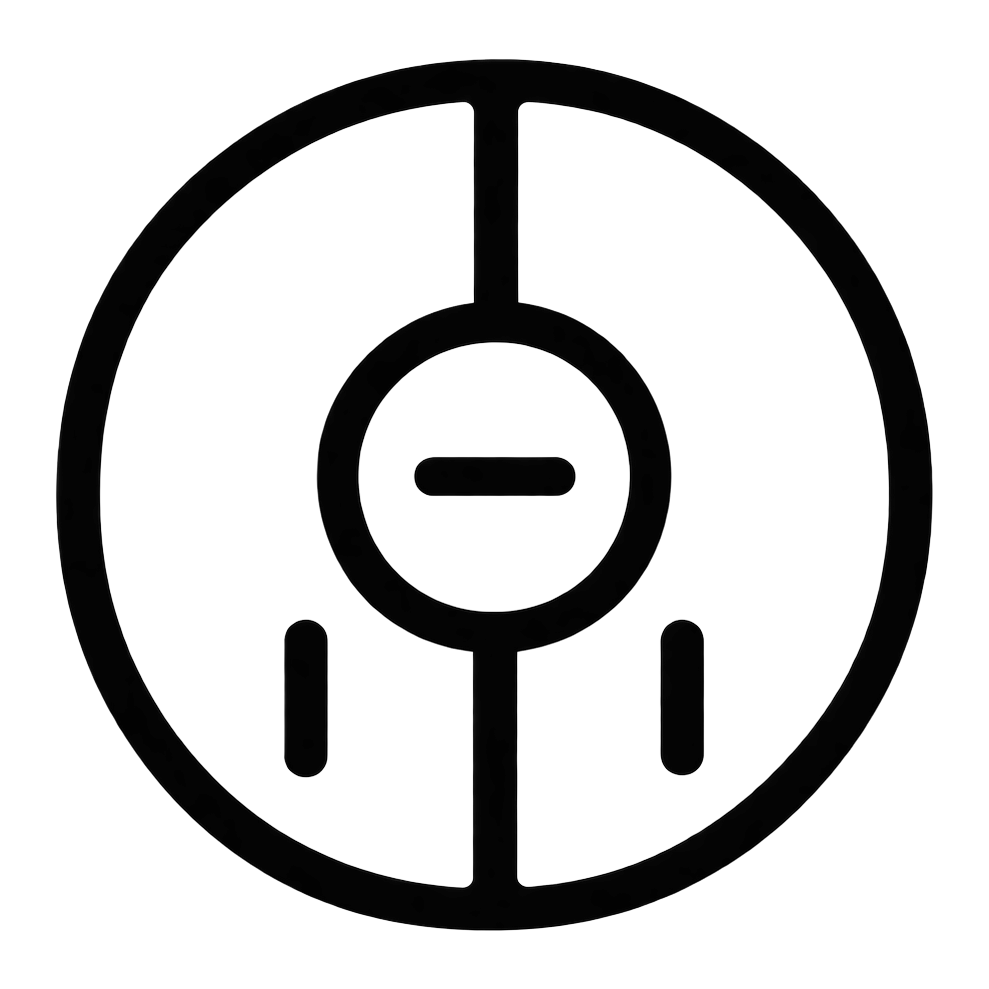
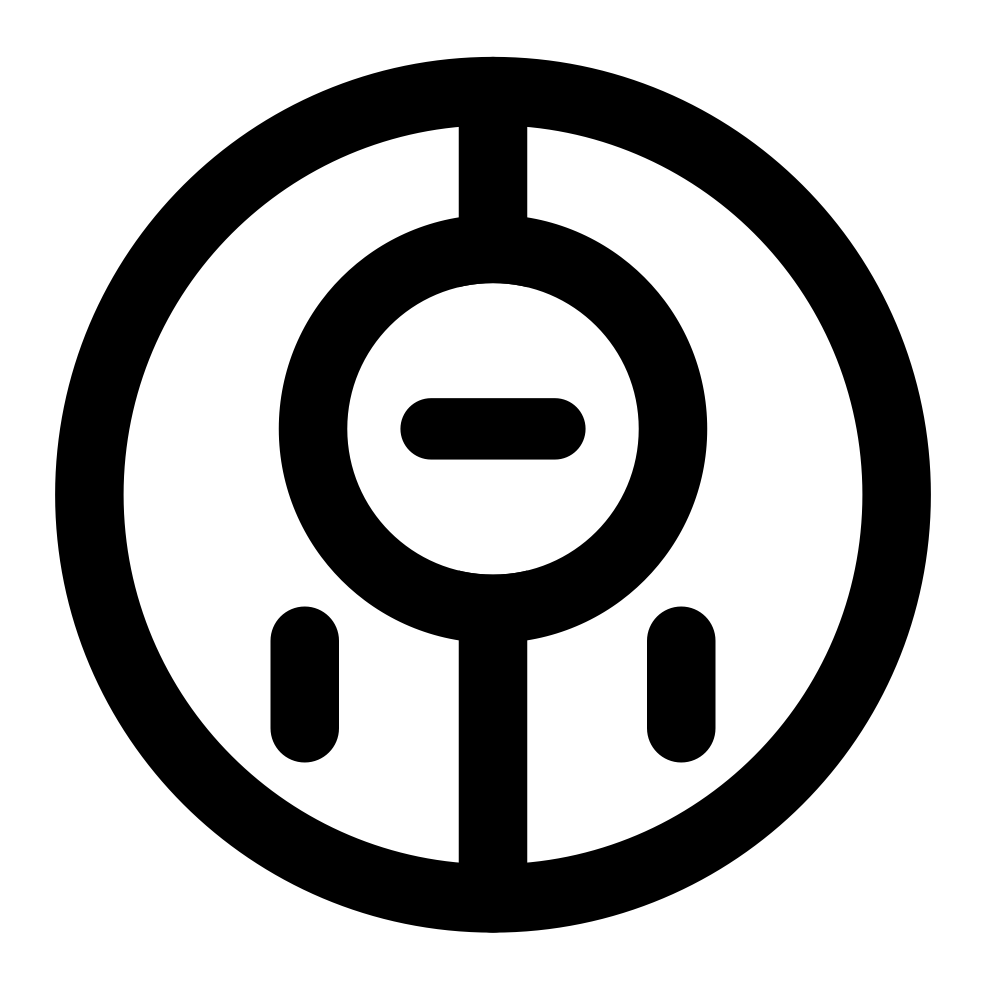
feat: generate the app mark from geometry at a heavier weight
The mark was a 989 px bitmap with no vector source behind it, and both reps were
a 29x downscale of it. Its strokes were 4.9% of the mark's width, which is
1.58 px in the 36 px rep — thin enough that downscaling reads as blur rather
than as weight — and changing that weight meant editing the artwork in an
external tool and re-exporting by hand.

The geometry is now the source. `Scripts/make-glyph/main.swift`, run through
`Scripts/make-glyph.sh`, builds the mark from five primitives, so the stroke
weight, the inner ring's radius and its height are each one number, and it
prints every clearance between parts before writing anything. All three PNGs are
drawn at their own size with CoreGraphics instead of being resampled;
`Resources/Glyph.png` stays as the reference rendering of the same geometry.

The constants were fitted to the artwork this replaces, by ray-casting it: that
raster's outer ring is a slight ellipse, 438.9 x 436.9, normalised here to a
circle of 437.9, and its inner ring is a true circle of centreline radius 156.5
whose centre sits 17.9 px above the outer ring's. The outer edge is pinned, so
the mark keeps filling 16 of the 18 authored points at any weight.

At the new weight — 43.5 to 68.5 master px, or 0.79 to 1.25 pt, 1.58 to 2.49 px
at 2x — the inner ring grows 15% and rises 48 px, and the two dashes are what
run out of room first. A stroke change of d takes 2d out of every
capsule-to-ring gap, and raising the ring moves the binding pair from
[…]

diff --git a/Scripts/make-glyph/main.swift b/Scripts/make-glyph/main.swift
@@ -1,0 +1,301 @@
+import AppKit
+import CoreGraphics
+import ImageIO
+import UniformTypeIdentifiers
+
+// YUANNotch · app-mark generator
+//
+// The mark is a monoline drawing built from five primitives, so its weight, the
+// inner ring's size and its height are each one number. This tool is the single
+// source of truth for the geometry; it renders the three tracked PNGs and prints
+// every clearance between parts, so a weight change can be judged before it is
+// drawn.
+//
+// The fitted constants came from ray-casting the artwork that shipped before
+// this tool existed. That raster's outer ring is a slight ellipse, 438.9 x 436.9,
+// normalised here to a circle of 437.9; its inner ring is a true circle of
+// centreline radius 156.5 whose centre sits 17.9 px above the outer ring's.
+//
+//   make-glyph <repo-root> [--baseline] [--out-dir <dir>]
+//
+//   --baseline  render the pre-existing weight and spacing, so the fit can be
+//               re-verified against the artwork it was fitted to
+//   --out-dir   write flat filenames into this directory instead of the tracked
+//               paths under <repo-root>
+
+// MARK: - geometry
+
+/// Measured, not chosen.
+private enum Fitted {
+    static let canvas: CGFloat = 989
+    static let centreX: CGFloat = 493.0
+    static let centreY: CGFloat = 494.75
+    /// Outer ring's outer edge. Pinned, so the mark keeps filling 16 of the 18
+    /// authored points however thick the stroke gets.
+    static let outerEdge: CGFloat = 437.9
+    static let spineX: CGFloat = 493.0
+    static let dashOffsetX: CGFloat = 188.25
+    static let dashedCentreY: CGFloat = 697.5
+    static let innerRadius: CGFloat = 156.5
+    static let innerCentreY: CGFloat = 476.86
+    static let dashLength: CGFloat = 156
+    static let barLength: CGFloat = 161
+    static let barThicknessRatio: CGFloat = 0.8966
+}
+
+/// The design: every value here is a decision.
+private struct MarkDesign {
+    var stroke: CGFloat
+    var innerRadius: CGFloat
+    var innerCentreY: CGFloat
+    var dashCentreY: CGFloat
+    var dashLength: CGFloat
+
+    /// What shipped before the 2026-09-18 weight pass.
+    static let original = MarkDesign(
+        stroke: 43.5,
+        innerRadius: Fitted.innerRadius,
+        innerCentreY: Fitted.innerCentreY,
+        dashCentreY: Fitted.dashedCentreY,
+        dashLength: Fitted.dashLength
+    )
+
+    /// 1.25 pt of the 18 pt box — 2.49 px at 2x against 1.58 px before. The inner
+    /// ring grows 15% and rises 48 master px (1.75 px at 2x, 8.8% of the exported
+    /// width). At this weight the two dashes are the first thing to run out of
+    /// room, so they keep their length and rise 13 px with the ring; see the
+    /// clearance report this tool prints.
+    static let current = MarkDesign(
+        stroke: 68.5,
+        innerRadius: Fitted.innerRadius * 1.15,
+        innerCentreY: Fitted.innerCentreY - 48,
+        dashCentreY: Fitted.dashedCentreY - 13,
+        dashLength: Fitted.dashLength
+    )
+
+    var half: CGFloat { stroke / 2 }
+
+    /// The bar's length follows the ring it sits in; its thickness follows the
+    /// stroke, so the mark stays one family at any weight.
+    var barLength: CGFloat { Fitted.barLength * innerRadius / Fitted.innerRadius }
+
+    var barThickness: CGFloat { Fitted.barThicknessRatio * stroke }
+
+    // MARK: clearances
+
+    /// Boundary of a round-capped rectangle. Every gap below is the smallest
+    /// ink-to-ink distance, measured from the shapes that are drawn.
+    private static func capsuleOutline(cx: CGFloat, cy: CGFloat,
+                                       halfWidth: CGFloat, halfHeight: CGFloat,
+                                       samples: Int = 360) -> [CGPoint] {
+        let r = min(halfWidth, halfHeight)
+        let sx = halfWidth - r
+        let sy = halfHeight - r
+        return (0..<samples).map { i in
+            let t = 2 * CGFloat.pi * CGFloat(i) / CGFloat(samples)
+            let x = cos(t) * r
+            let y = sin(t) * r
+            return CGPoint(x: cx + x + (x > 0 ? sx : -sx),
+                           y: cy + y + (y > 0 ? sy : -sy))
+        }
+    }
+
+    private func dashOutline(sign: CGFloat) -> [CGPoint] {
+        Self.capsuleOutline(cx: Fitted.centreX + sign * Fitted.dashOffsetX,
+                            cy: dashCentreY, halfWidth: half, halfHeight: dashLength / 2)
+    }
+
+    private var barOutline: [CGPoint] {
+        Self.capsuleOutline(cx: Fitted.centreX, cy: innerCentreY,
+                            halfWidth: barLength / 2, halfHeight: barThickness / 2)
+    }
+
+    private func distance(_ p: CGPoint, to centre: CGPoint) -> CGFloat {
+        let dx = p.x - centre.x
+        let dy = p.y - centre.y
+        return (dx * dx + dy * dy).squareRoot()
+    }
+
+    /// Smallest ink-to-ink gap per facing pair, in master px.
+    func clearances() -> [(name: String, gap: CGFloat)] {
+        let outerInnerRadius = Fitted.outerEdge - stroke
+        let innerOuterRadius = innerRadius + half
+        let innerInnerRadius = innerRadius - half
+        let ringCentre = CGPoint(x: Fitted.centreX, y: Fitted.centreY)
+        let innerCentre = CGPoint(x: Fitted.centreX, y: innerCentreY)
+
+        var toOuter = CGFloat.greatestFiniteMagnitude
+        var toInner = CGFloat.greatestFiniteMagnitude
+        var toSpine = CGFloat.greatestFiniteMagnitude
+        for sign in [CGFloat(-1), CGFloat(1)] {
+            for p in dashOutline(sign: sign) {
+                toOuter = min(toOuter, outerInnerRadius - distance(p, to: ringCentre))
+                toInner = min(toInner, distance(p, to: innerCentre) - innerOuterRadius)
+                toSpine = min(toSpine, abs(p.x - Fitted.spineX) - half)
+            }
+        }
+        let barReach = barOutline.map { distance($0, to: innerCentre) }.max() ?? 0
+        return [
+            ("短划线 → 外环", toOuter),
+            ("短划线 → 内环", toInner),
+            ("短划线 → 脊柱", toSpine),
+            ("横杆   → 内环", innerInnerRadius - barReach),
+            ("内环   → 外环", outerInnerRadius - innerOuterRadius),
+        ]
+    }
+
+    /// Everything except the ring-to-ring gap, which is never the binding one.
+    func minGap() -> CGFloat {
+        clearances().dropLast().map(\.gap).min() ?? 0
+    }
+
+    // MARK: drawing
+
+    /// Renders the mark at `size` px square. Coordinates are master units, so
+    /// the exported rep is the geometry drawn at its own size — the artwork is
+    /// never resampled down from the master.
+    func draw(size: Int) -> CGImage? {
+        guard let ctx = CGContext(
+            data: nil, width: size, height: size, bitsPerComponent: 8,
+            bytesPerRow: 0, space: CGColorSpaceCreateDeviceRGB(),
+            bitmapInfo: CGImageAlphaInfo.premultipliedLast.rawValue
+        ) else { return nil }
+
+        ctx.setShouldAntialias(true)
+        // A bitmap context has its origin at the bottom left; the geometry is
+        // measured from the top left, as the artwork always was.
+        ctx.translateBy(x: 0, y: CGFloat(size))
+        let k = CGFloat(size) / Fitted.canvas
+        ctx.scaleBy(x: k, y: -k)
+
+        ctx.setFillColor(CGColor(red: 0, green: 0, blue: 0, alpha: 1))
+        let ringCentre = CGPoint(x: Fitted.centreX, y: Fitted.centreY)
+        let innerCentre = CGPoint(x: Fitted.centreX, y: innerCentreY)
+
+        fillRing(ctx, centre: ringCentre, radius: Fitted.outerEdge - half, width: stroke)
+        fillCapsule(ctx, centre: CGPoint(x: Fitted.spineX, y: Fitted.centreY),
+                    halfWidth: half, halfHeight: Fitted.outerEdge)
+        // the inner ring's interior knocks the spine out
+        ctx.setBlendMode(.clear)
+        fillEllipse(ctx, centre: innerCentre, radius: innerRadius - half)
+        ctx.setBlendMode(.normal)
+        fillRing(ctx, centre: innerCentre, radius: innerRadius, width: stroke)
+        fillCapsule(ctx, centre: innerCentre,
+                    halfWidth: barLength / 2, halfHeight: barThickness / 2)
+        for sign in [CGFloat(-1), CGFloat(1)] {
+            fillCapsule(ctx, centre: CGPoint(x: Fitted.centreX + sign * Fitted.dashOffsetX,
+                                             y: dashCentreY),
+                        halfWidth: half, halfHeight: dashLength / 2)
+        }
+        return ctx.makeImage()
+    }
+}
+
+// MARK: - drawing helpers
+
+private func fillEllipse(_ ctx: CGContext, centre: CGPoint, radius: CGFloat) {
+    ctx.fillEllipse(in: CGRect(x: centre.x - radius, y: centre.y - radius,
+                               width: radius * 2, height: radius * 2))
+}
+
+/// Annulus: both edges of the stroke are centreline ± width/2, filled even-odd.
+private func fillRing(_ ctx: CGContext, centre: CGPoint, radius: CGFloat, width: CGFloat) {
+    let outer = radius + width / 2
+    let inner = radius - width / 2
+    let path = CGMutablePath()
+    path.addEllipse(in: CGRect(x: centre.x - outer, y: centre.y - outer,
+                               width: outer * 2, height: outer * 2))
+    path.addEllipse(in: CGRect(x: centre.x - inner, y: centre.y - inner,
+                               width: inner * 2, height: inner * 2))
+    ctx.addPath(path)
+    ctx.fillPath(using: .evenOdd)
+}
+
+private func fillCapsule(_ ctx: CGContext, centre: CGPoint,
+                         halfWidth: CGFloat, halfHeight: CGFloat) {
+    let r = min(halfWidth, halfHeight)
+    let path = CGPath(roundedRect: CGRect(x: centre.x - halfWidth, y: centre.y - halfHeight,
+                                          width: halfWidth * 2, height: halfHeight * 2),
+                      cornerWidth: r, cornerHeight: r, transform: nil)
+    ctx.addPath(path)
+    ctx.fillPath()
+}
+
+// MARK: - output
+
+private func write(_ image: CGImage, to url: URL) throws {
+    try FileManager.default.createDirectory(at: url.deletingLastPathComponent(),
+                                           withIntermediateDirectories: true)
+    guard let dest = CGImageDestinationCreateWithURL(
+        url as CFURL, UTType.png.identifier as CFString, 1, nil
+    ) else {
+        throw NSError(domain: "make-glyph", code: 1,
+                      userInfo: [NSLocalizedDescriptionKey: "cannot create \(url.path)"])
+    }
+    CGImageDestinationAddImage(dest, image, nil)
+    guard CGImageDestinationFinalize(dest) else {
+        throw NSError(domain: "make-glyph", code: 2,
+                      userInfo: [NSLocalizedDescriptionKey: "cannot finalise \(url.path)"])
+    }
+}
+
+private func report(_ design: MarkDesign, title: String) {
+    print("=== \(title) ===")
+    print(String(format: "  线宽    %.1f 母版 px = %.2f pt（18 pt 字框）= %.2f px @36",
+                 design.stroke, design.stroke / Fitted.canvas * 18,
+                 design.stroke * 36 / Fitted.canvas))
+    print(String(format: "  内环    中心线半径 %.1f，外径 %.2f px @36；圆心 y %.2f（较外环中心 %+.1f px）",
+                 design.innerRadius, (design.innerRadius * 2 + design.stroke) * 36 / Fitted.canvas,
+                 design.innerCentreY, design.innerCentreY - Fitted.centreY))
+    print(String(format: "  短划线  长 %.1f，y %.1f（较原始中心 %+.1f px）；横杆 长 %.1f 厚 %.1f",
+                 design.dashLength, design.dashCentreY,
+                 design.dashCentreY - Fitted.dashedCentreY,
+                 design.barLength, design.barThickness))
+    for (name, gap) in design.clearances() {
+        print(String(format: "  %@  %6.1f px = %.2f px @36", name, gap, gap * 36 / Fitted.canvas))
+    }
+    print(String(format: "  最紧间隙 %.1f px = %.2f px @36",
+                 design.minGap(), design.minGap() * 36 / Fitted.canvas))
+    print("")
+}
+
+// MARK: - main
+
+let args = Array(CommandLine.arguments.dropFirst())
+guard let root = args.first, !root.hasPrefix("-") else {
+    FileHandle.standardError.write(
+        "usage: make-glyph <repo-root> [--baseline] [--out-dir <dir>]\n".data(using: .utf8)!)
+    exit(2)
+}
+let baseline = args.contains("--baseline")
+var outDir: String? = nil
+if let i = args.firstIndex(of: "--out-dir"), i + 1 < args.count {
+    outDir = args[args.index(after: i)]
+}
+private let design = baseline ? MarkDesign.original : MarkDesign.current
+let rootURL = URL(fileURLWithPath: root)
+
+report(design, title: baseline ? "基线（本次改动之前的线宽与间距）" : "当前设计")
+
+let targets: [(path: String, size: Int, flatName: String)] = [
+    ("Resources/Glyph.png", 989, "Glyph-master.png"),
+    ("Sources/YUANNotch/Glyph/Glyph.png", 18, "Glyph.png"),
+    ("Sources/YUANNotch/Glyph/Glyph@2x.png", 36, "Glyph@2x.png"),
+]
+
+for target in targets {
+    guard let image = design.draw(size: target.size) else {
+        FileHandle.standardError.write("failed to render \(target.path)\n".data(using: .utf8)!)
+        exit(1)
+    }
+    let url: URL = outDir.map {
+        URL(fileURLWithPath: $0).appendingPathComponent(target.flatName)
+    } ?? rootURL.appendingPathComponent(target.path)
+    do {
+        try write(image, to: url)
+        print("wrote \(url.path)  \(target.size)x\(target.size)")
+    } catch {
+        FileHandle.standardError.write("failed: \(error.localizedDescription)\n".data(using: .utf8)!)
+        exit(1)
+    }
+}

diff --git a/AGENTS.md b/AGENTS.md
@@ -6,11 +6,13 @@ YUANNotch is a Swift Package Manager macOS 14+ menu-bar application. Application
 
 ## The app mark
 
-`Sources/YUANNotch/AppGlyph.swift` is the single source of truth for the mark drawn in the menu bar and in the compact notch. No call site names the artwork, its point size, or its tint, so replacing those two files is the whole job.
+`Sources/YUANNotch/AppGlyph.swift` is the single source of truth for how the mark is *loaded and tinted* — no call site names the artwork, its point size, or its tint. The mark's *geometry* is the single source in `Scripts/make-glyph/main.swift`, run through `Scripts/make-glyph.sh`.
 
-The artwork is exported from `Resources/Glyph.png` into `Sources/YUANNotch/Glyph/` as `Glyph.png` (18 pt) and `Glyph@2x.png` (36 pt) — monochrome on transparent, with the mark filling 16 of the 18 points. Export with Lanczos resampling: the strokes are ~5% of the mark's width, and box or `sips` resampling erodes them at these sizes.
+The mark is a monoline drawing built from five primitives, so its stroke weight, the inner ring's radius and its height are each one number in that file. The tool draws the geometry at each target size and writes all three tracked PNGs — `Resources/Glyph.png` (989 px, the reference rendering), `Sources/YUANNotch/Glyph/Glyph.png` (18 px) and `Glyph@2x.png` (36 px) — monochrome on transparent, with the mark's outer edge pinned so it always fills 16 of the 18 points. The reps are rendered **at their own size**, not resampled from the master: downscaling 989 px by 29x erodes the strokes, and at 18/36 px a native render puts more of each stroke on full pixels.
 
-`AppGlyph` deliberately does not use `Bundle.module`. SwiftPM generates its lookup as `Bundle.main.bundleURL + "<name>.bundle"`, which inside a `.app` resolves to the bundle root — a location macOS allows only `Contents` in. The code looks beside the executable instead, so `Scripts/package-app.sh` must copy `YUANNotch_YUANNotch.bundle` into `Contents/MacOS/`. Without that copy the app still launches wherever its build tree survives, and crashes elsewhere.
+It prints every clearance between parts before writing anything, so a weight change can be judged before it is drawn. The two dashes run out of room first — at the current 1.25 pt they are what constrains the weight, which is why they rise with the inner ring rather than staying put.
+
+`AppGlyph` deliberately does not use `Bundle.module`. SwiftPM generates its lookup as `Bundle.main.bundleURL + "<name>.bundle"`, which inside a `.app` resolves to the bundle root — a location macOS allows only `Contents` in. The code looks beside the executable instead, so `Scripts/package-app.sh` must copy `YUANNotch_YUANNotch.bundle` into `Contents/MacOS/`, and ship it as a well-formed bundle (`Contents/Info.plist` plus the payload under `Contents/Resources/`) or `codesign` rejects the whole app. Without that copy the app still launches wherever its build tree survives, and crashes elsewhere.
 
 ## Build, Test, and Development Commands
 
@@ -18,6 +20,7 @@ The artwork is exported from `Resources/Glyph.png` into `Sources/YUANNotch/Glyph
 - `swift run YUANNotch`: build and launch the app from the terminal.
 - `swift build -c release`: produce the optimized binary used for distribution.
 - `swift test`: run all SwiftPM tests once test targets are added; currently the package has no test target.
+- `bash Scripts/make-glyph.sh`: regenerate the app mark's three PNGs from the geometry in `Scripts/make-glyph/main.swift`. Pass `--baseline --out-dir <dir>` to re-render the pre-existing weight, which is how the fitted geometry is re-verified.
 - `bash Scripts/package-app.sh`: create, ad-hoc sign, and copy `YUANNotch.app` to `/Applications`. This script replaces existing YUANNotch and legacy NotchNotes app bundles, so use it only when installation is intended. Set `SIGN_IDENTITY` to override ad-hoc signing. It also ships the SwiftPM resource bundle holding the app mark, and aborts if `swift build` did not produce one.
 
 ## Coding Style & Naming Conventions
